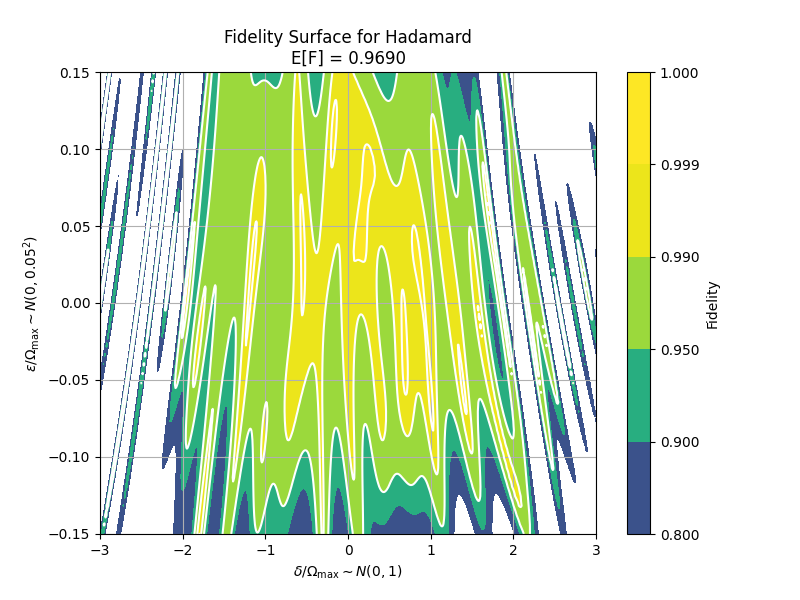
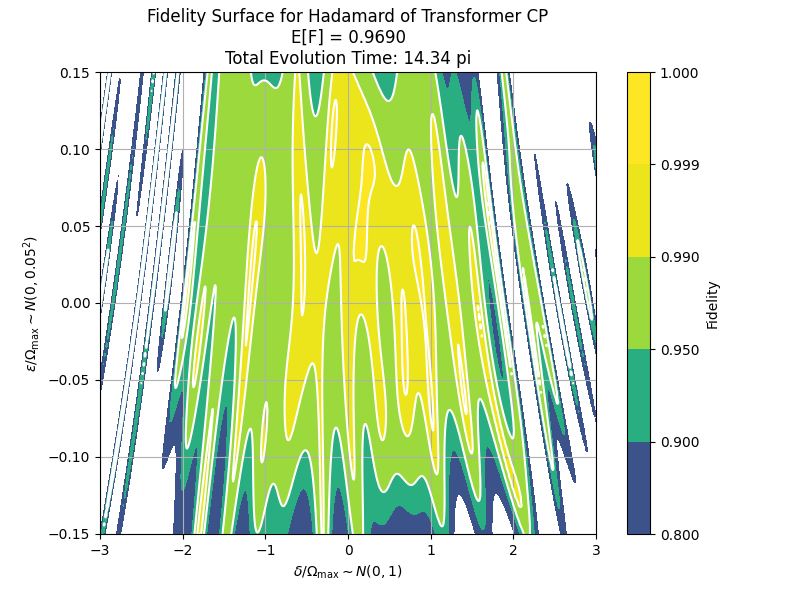
SCOREn pulse comparison added

Changed region(s): [[0.1875, 0.0, 0.6875, 0.12]]

diff --git a/visualize/single_qubit_visualization.py b/visualize/single_qubit_visualization.py
@@ -17,12 +17,76 @@ sys.path.insert(0, os.path.abspath(os.path.join(os.path.dirname(__file__), "..")
 
 
 from train.single_qubit.single_qubit_script import *
-
+from visualize.SCORE_visualization import *
 
 
 def single_fidelity(A, B):
     trace = torch.trace(A.conj().T @ B)
     return (trace.abs() ** 2 + 2) / 6
+
+
+def visualize(target_name, U_target, pulse, name, save_csv=False):
+
+    if save_csv:
+        df = pd.DataFrame(pulse)
+        df.to_csv(f"weights/single_qubit_control/{target_name}_pulse.csv", index=False)
+
+    # print(pulse[:-1].to(dtype=torch.float64))
+    total_time = sum(pulse[:, -1].to(dtype=torch.float64)) / np.pi
+
+    errors_mc = get_ore_ple_error_distribution(M, 1, 0.05)
+    U_target_plot = torch.stack([U_target]).repeat_interleave(M, dim=0)
+    pulses_plot = torch.stack([pulse]).repeat_interleave(M, dim=0)
+
+
+    U_out_plot = batched_unitary_generator(pulses_plot, errors_mc)
+    F = fidelity(U_out_plot, U_target_plot, 1)
+
+    
+    # Create 2D grid of ORE and PLE
+    ORE_vals = torch.linspace(-3, 3, 1000)
+    PLE_vals = torch.linspace(-0.15, 0.15, 50)
+    ORE_grid, PLE_grid = torch.meshgrid(ORE_vals, PLE_vals, indexing="ij")
+
+    # Flatten the grid for batch processing
+    ORE_flat = ORE_grid.flatten()
+    PLE_flat = PLE_grid.flatten()
+
+    # Shape: (2, N)
+    errors_grid = torch.stack([ORE_flat, PLE_flat], dim=0)
+
+    # Repeat target and pulse
+    N = errors_grid.shape[1]
+    U_target_grid = U_target.expand(N, -1, -1)  # (N, d, d)
+    pulses_grid = pulse.expand(N, -1, -1)       # (N, L, P)
+
+    # Evaluate fidelity
+    U_out_grid = batched_unitary_generator(pulses_grid, errors_grid)
+    F_grid = fidelity(U_out_grid, U_target_grid, 1).reshape(1000, 50)
+
+    # Convert meshgrid to numpy
+    ORE_np = ORE_grid.detach().cpu().numpy()
+    PLE_np = PLE_grid.detach().cpu().numpy()
+    F_np = F_grid.numpy()
+
+    plt.figure(figsize=(8, 6))
+    # contour = plt.contourf(ORE_np, PLE_np, F_np, levels=20, cmap='viridis')
+    contour = plt.contourf(ORE_np, PLE_np, F_np, levels=[0.8, 0.9, 0.95, 0.99, 0.999, 1.0], cmap='viridis')
+    plt.contour(ORE_np, PLE_np, F_np, levels=[0.95, 0.99, 0.999], colors='white', linewidths=1.5)
+
+    plt.colorbar(contour, label='Fidelity')
+    plt.xlabel(r"$\delta / \Omega_{\max} \sim N(0, 1)$")
+    plt.ylabel(r"$\epsilon / \Omega_{\max} \sim N(0, 0.05^2)$")
+    plt.title(f"Fidelity Surface for {target_name} of {name}\nE[F] = {F.mean().item():.4f}\nTotal Evolution Time: {total_time:.2f} pi")
+    # plt.suptitle(f"Fidelity Surface for {target_name}")
+    # plt.title(
+    #     fr"$\mathbb{{E}}_{{\sigma_\delta = 1,\ \sigma_\epsilon = 0.05}}[F] = {F.mean().item():.4f}$",
+    #     # fontsize=18
+    # )
+    plt.grid(True)
+    plt.show()
+
+        
 
 
 if __name__ == "__main__":
@@ -42,59 +106,15 @@ if __name__ == "__main__":
     ]
 
     for target_name, U_target, pulse in zip(train_set_name, train_set, pulses):
-        df = pd.DataFrame(pulse)
-        df.to_csv(f"weights/single_qubit_control/{target_name}_pulse.csv", index=False)
+        visualize(target_name, U_target, pulse, "Transformer CP", True)
 
-        errors_mc = get_ore_ple_error_distribution(M, 1, 0.05)
-        U_target_plot = torch.stack([U_target]).repeat_interleave(M, dim=0)
-        pulses_plot = torch.stack([pulse]).repeat_interleave(M, dim=0)
+    SCORE_pulses = build_SCORE_pulses()
+
+    for target_name, U_target, pulse in zip(train_set_name, train_set, SCORE_pulses):
+
+        print(pulse)
+
+        print(pulse.shape)
+        visualize(target_name, U_target, pulse, "SCORE4")
 
 
-        U_out_plot = batched_unitary_generator(pulses_plot, errors_mc)
-        F = fidelity(U_out_plot, U_target_plot, 1)
-
-        
-        # Create 2D grid of ORE and PLE
-        ORE_vals = torch.linspace(-3, 3, 1000)
-        PLE_vals = torch.linspace(-0.15, 0.15, 50)
-        ORE_grid, PLE_grid = torch.meshgrid(ORE_vals, PLE_vals, indexing="ij")
-
-        # Flatten the grid for batch processing
-        ORE_flat = ORE_grid.flatten()
-        PLE_flat = PLE_grid.flatten()
-
-        # Shape: (2, N)
-        errors_grid = torch.stack([ORE_flat, PLE_flat], dim=0)
-
-        # Repeat target and pulse
-        N = errors_grid.shape[1]
-        U_target_grid = U_target.expand(N, -1, -1)  # (N, d, d)
-        pulses_grid = pulse.expand(N, -1, -1)       # (N, L, P)
-
-        # Evaluate fidelity
-        U_out_grid = batched_unitary_generator(pulses_grid, errors_grid)
-        F_grid = fidelity(U_out_grid, U_target_grid, 1).reshape(1000, 50)
-
-        # Convert meshgrid to numpy
-        ORE_np = ORE_grid.detach().cpu().numpy()
-        PLE_np = PLE_grid.detach().cpu().numpy()
-        F_np = F_grid.numpy()
-
-        plt.figure(figsize=(8, 6))
-        # contour = plt.contourf(ORE_np, PLE_np, F_np, levels=20, cmap='viridis')
-        contour = plt.contourf(ORE_np, PLE_np, F_np, levels=[0.8, 0.9, 0.95, 0.99, 0.999, 1.0], cmap='viridis')
-        plt.contour(ORE_np, PLE_np, F_np, levels=[0.95, 0.99, 0.999], colors='white', linewidths=1.5)
-
-        plt.colorbar(contour, label='Fidelity')
-        plt.xlabel(r"$\delta / \Omega_{\max} \sim N(0, 1)$")
-        plt.ylabel(r"$\epsilon / \Omega_{\max} \sim N(0, 0.05^2)$")
-        plt.title(f"Fidelity Surface for {target_name}\nE[F] = {F.mean().item():.4f}")
-        # plt.suptitle(f"Fidelity Surface for {target_name}")
-        # plt.title(
-        #     fr"$\mathbb{{E}}_{{\sigma_\delta = 1,\ \sigma_\epsilon = 0.05}}[F] = {F.mean().item():.4f}$",
-        #     # fontsize=18
-        # )
-        plt.grid(True)
-        plt.show()
-
-        

diff --git a/visualize/SCORE_visualization.py b/visualize/SCORE_visualization.py
@@ -1,0 +1,92 @@
+"""
+Reference:
+https://arxiv.org/pdf/2312.08426
+"""
+
+
+from __future__ import annotations
+
+import math
+from typing import Callable, Dict, List
+
+import torch
+
+import pandas as pd
+import numpy as np
+
+import matplotlib.pyplot as plt
+from mpl_toolkits.mplot3d import Axes3D
+
+
+# Add to the top of visualize/single_qubit_visualization.py
+import sys, os
+sys.path.insert(0, os.path.abspath(os.path.join(os.path.dirname(__file__), "..")))
+
+
+from train.single_qubit.single_qubit_script import *
+
+
+angle_vec_dict = {
+    1/4 : [1.34820, 1.32669, 1.77042, 2.16800],
+    1/3 : [1.41901, 1.35864, 1.77664, 2.13759],
+    1/2 : [1.55280, 1.42267, 1.78586, 2.07559],
+    2/3 : [1.67478, 1.47865, 1.78919, 2.02043],
+    3/4 : [1.73053, 1.49972, 1.78853, 1.99939],
+    1   : [1.87342, 1.52524, 1.78436, 1.97330]
+}
+
+unitaries = {
+    "X(pi)" : [(1, 0)],
+    "X(pi/2)" : [(1/2, 0)],
+    "H" : [(1, 0), (1/2, 1/2)],
+    "Z(pi/4)" : [(1/2, 0), (1/4, 1/2), (1/2, 0)]
+}
+
+
+def SCOREn_config(n, phi):
+    angle_vec = angle_vec_dict[n]
+    config = []
+    Angle = np.pi * n
+
+    for i, angle in enumerate(angle_vec):
+        config.append({
+            "phi": torch.tensor([phi + (i % 2) * np.pi], dtype=torch.complex64),
+            "theta": torch.tensor([np.pi/2], dtype=torch.complex64),
+            "angle": torch.tensor([angle * np.pi], dtype=torch.complex64)
+        })
+        Angle += (-1)**(len(angle_vec) - 1 - i) * 2 * angle * np.pi
+
+    config.append({
+        "phi": torch.tensor([phi], dtype=torch.complex64),
+        "theta": torch.tensor([np.pi/2], dtype=torch.complex64),
+        "angle": torch.tensor([Angle], dtype=torch.complex64)
+    })
+
+    for i, angle in reversed(list(enumerate(angle_vec))):
+        config.append({
+            "phi": torch.tensor([phi + (i % 2) * np.pi], dtype=torch.complex64),
+            "theta": torch.tensor([np.pi/2], dtype=torch.complex64),
+            "angle": torch.tensor([angle * np.pi], dtype=torch.complex64)
+        })
+
+    config_to_tensor = [
+        [0, 1, x["phi"], torch.sin(x["theta"]) * x["angle"]]
+        for x in config
+    ]
+
+    return torch.tensor(config_to_tensor)
+
+
+def build_SCORE_pulses():
+    SCORE_pulses = []
+
+    for target in unitaries:
+        pulses = []
+
+        for n, phi in reversed(unitaries[target]):
+            pulses.append(SCOREn_config(n, phi * np.pi))
+        
+        SCORE_pulses.append(torch.stack(pulses))
+
+    return [x.reshape(-1, x.shape[-1]) for x in SCORE_pulses]
+

diff --git a/README.md b/README.md
@@ -160,19 +160,22 @@ The following table reports the evaluation fidelity of the model trained using `
 
 ---
 
-## 🎯 2D Fidelity Contour Results
+## 🎯 2D Fidelity Contour Results: Transformer vs SCORE
 
-The following plots show fidelity contours for different target unitaries under off-resonant error (ORE) and pulse-length error (PLE). Each plot visualizes how robust the learned composite pulse sequence is with respect to variations in error:
+The following plots show fidelity contours for different target unitaries under off-resonant error (ORE) and pulse-length error (PLE). Each pair of plots compares the robustness of the composite pulse sequences generated by the transformer encoder (left) and the SCORE baseline (right). Brighter regions indicate higher fidelity, highlighting robustness across a range of error values.
 
 <p align="center">
-  <img src="figures/X(pi).png" width="45%" alt="Fidelity for X(pi)">
-  <img src="figures/X(pi-2).png" width="45%" alt="Fidelity for X(pi/2)">
+  <img src="figures/X(pi).png" width="22%" alt="Transformer X(pi)">
+  <img src="figures/SCORE_4_X(pi).png" width="22%" alt="SCORE X(pi)">
+  <img src="figures/X(pi-2).png" width="22%" alt="Transformer X(pi-2)">
+  <img src="figures/SCORE_4_X(pi-2).png" width="22%" alt="SCORE X(pi-2)">
   <br>
-  <img src="figures/Hadamard.png" width="45%" alt="Fidelity for Hadamard">
-  <img src="figures/Z(pi-4).png" width="45%" alt="Fidelity for Z(pi/4)">
+  <img src="figures/Hadamard.png" width="22%" alt="Transformer Hadamard">
+  <img src="figures/SCORE_4_Hadamard.png" width="22%" alt="SCORE Hadamard">
+  <img src="figures/Z(pi-4).png" width="22%" alt="Transformer Z(pi-4)">
+  <img src="figures/SCORE_4_Z(pi-4).png" width="22%" alt="SCORE Z(pi-4)">
 </p>
 
-Each figure shows the expected fidelity across a grid of error parameters. Brighter regions indicate higher fidelity, demonstrating the robustness of the generated pulse sequences across error distributions.
 
 ---
 
